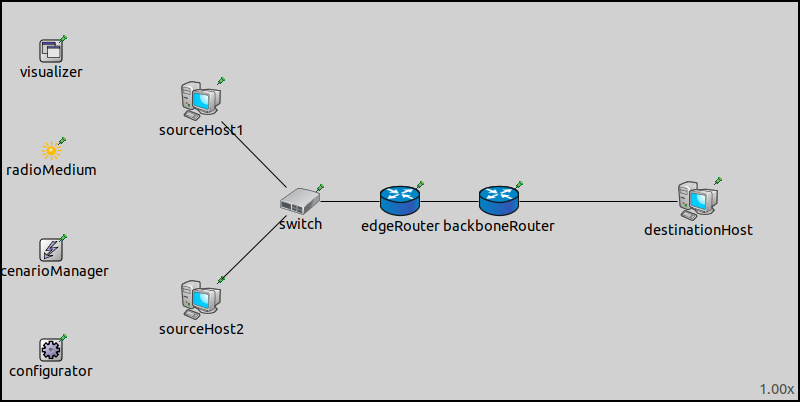
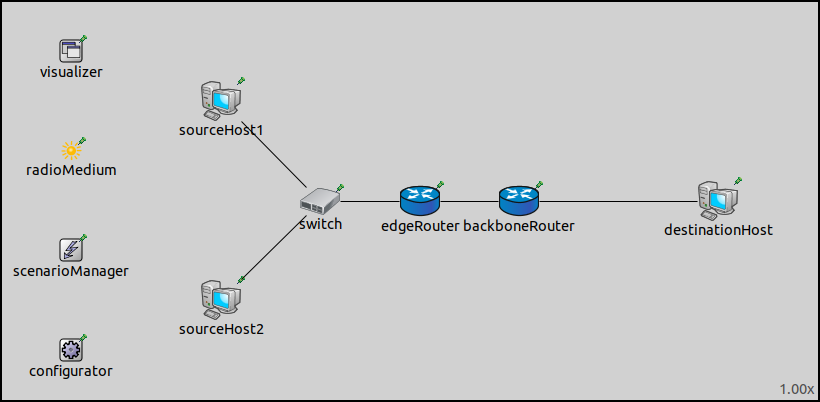
dynamicNetworks: improved

diff --git a/general/dynamicNetworks/doc/index.rst b/general/dynamicNetworks/doc/index.rst
@@ -49,7 +49,8 @@ The showcase presents two example simulations:
 The following image shows the layout of the network for the wireless simulation:
 
 .. figure:: Wireless_layout.png
-   :width: 100%
+   :scale: 100%
+   :align: center
 
 The network contains ``destinationNode`` and a vector of ``sourceNodes``'s. The number of ``sourceNodes``
 is initially set to zero, because the nodes are created with the help of the scenario scripting
@@ -58,7 +59,8 @@ during the simulation.
 The layout of the wired simulation looks like the following:
 
 .. figure:: Wired_layout.png
-   :width: 100%
+   :scale: 100%
+   :align: center
 
 It contains two ``sourceNode``'s and one ``destinationNode`` connected through two routers and a switch.
 
@@ -101,40 +103,78 @@ The key part of the configuration regarding this showcase is the following:
 .. literalinclude:: ../omnetpp.ini
    :language: ini
    :start-at: # scenario script to create and destroy nodes dynamically
-   :end-at: *.scenarioManager.script = xmldoc("scenario.xml")
+   :end-at: *.scenarioManager.script = xmldoc("wireless.xml")
 
-The ``scenario.xml`` file contains the script for the wireless simulation. Two :ned:`DynamicHost`:s,
-``sourceNode[0]`` and ``sourceNode[1]`` are created at the beginning of the simulation:
+The ``scenario.xml`` file contains the script for the wireless simulation. 
+
+Note that is life-cycle modeling is required, the following line must be added to the
+ini file to ensure that nodes have status modules:
+
+.. literalinclude:: ../omnetpp.ini
+   :language: ini
+   :start-at: # lifecycle
+   :end-at: **.hasStatus = true
+
+Two :ned:`DynamicHost`:s, ``sourceNode[0]`` and ``sourceNode[1]`` are created at 
+the beginning of the simulation. This is achieved as the following in the XML file:
 
 .. literalinclude:: ../wireless.xml
    :language: xml
    :start-at: <at t="0.0">
    :end-before: <at t="6.0">
 
+As you can see, the ``<create-module>`` element has four attributes, one for the type,
+one for the submodule name, one for the parent module and one for indicating that it is a vector of modules. 
+We create a vector of modules named ``sourceNode`` with the type of the previously mentioned :ned:`DynamicHost`.
 The created modules will have a random position inside the parent module. 
-The parent module in this case is the playground, because the parent module is ``"."``.
+The parent module in this case is the playground, because the ``parent`` attribute is set to is ``"."``.
 
-The ``destinationNode`` is shut down for four seconds, and during this, the ping request messages
-can not reach it:
+The ``destinationNode`` is shut down at ``t=6.0`` and remains so for two seconds. During this, the ping request messages
+can not reach it. To achieve this behavior, two life-cycle operations need to be used. With the ``<shutdown>`` element
+a module, given in the ``module`` attribute, can be shut down. This operation represents the process of orderly
+shutting down a network node.
+It is recommended to first initiate the shut down operation
+with the ``<initiate>`` attribute. The ``destinationNode`` is then started after two seconds using the ``<startup>``
+element. The ``<startup>`` operation represents the process of turning on a network node after a shutdown or
+crash. Here you can see the parts in question of  the scrip in the XML file:
 
 .. literalinclude:: ../wireless.xml
    :language: xml
    :start-at: <at t="6.0">
    :end-before: <at t="10.0">
 
-After that, ``sourceNode[0]`` crashes before both modules are destroyed:
+Another life-cycle operation to be mentioned is the crash of a node, which can be achieved with the
+``<crash>`` element. This operation represents the process of crashing a network node. The
+difference between this operation and shutdown operation is that the
+network node will not do a graceful shutdown (e.g. routing protocols will
+not have chance of notifying peers about broken routes). In this simulation,
+``sourceNode[0]`` crashes due to a theoretical malfunction, so that it
+does not send ping request messages anymore:
 
 .. literalinclude:: ../wireless.xml
    :language: xml
    :start-at: <at t="10.0">
+   :end-before: <at t="12.0">
+
+At the end of the simulation, both ``sourceNode[0]`` and ``sourceNode[1]`` are
+destroyed using the ``<delete-module>`` element:
+
+.. literalinclude:: ../wireless.xml
+   :language: xml
+   :start-at: <at t="12.0">
    :end-before: </scenario>
 
-We can simply see how these operations took place during the simulation
-if we take a look at specific statistics. The following image shows the
+We can simply confirm that these operations truely took place during the simulation
+if we take a look at the statistics. The following image shows the
 ``radioMode`` of the destination node:
 
 .. figure:: RadioMode.png
-   :width: 100%
+   :scale: 100%
+   :align: center
+
+We can clearly see for example that ``destinationNode`` was indeed shut down
+for two seconds between ``t=6.0s`` and ``t=8.0s``, and that ``sourceNode[0]`` truly
+crashed at ``t=10.0s``.
 
 Wired
 ~~~~~
@@ -143,17 +183,18 @@ In this example simulation, there are neither dynamically created nor dynamicall
 modules, therefore the :ned:`Ipv4NetworkConfigurator` can be used.
 
 All of the connections between the nodes (even the later dynamically created ones) 
-is set in the ned file:
+is set in the ned file. This needs to be done because the number of gates of a module can not
+be modified after the initialization.
 
 .. literalinclude:: ../scenMan.ned
    :language: ned
    :start-at: connections:
    :end-before: backboneRouter.ethg++ <--> Eth10M <--> destinationNode.ethg++;
 
-This needs to be done because the number of gates of a module can not
-be modified after the initialization. At the beginning, ``sourceNode2`` is
-disconnected from the network, and the connection between the ``backboneRouter``
-and the ``destinationNode`` modules is also destroyed during the simulation:
+At the beginning of the simulation, ``sourceNode2`` is
+disconnected from the network. At ``t=3.0s`` the connection between the ``backboneRouter``
+and the ``destinationNode`` modules is also destroyed. This can be done with the ``<disconnect>``
+element. Note that if the ``src-gate`` parameter names and inout gate, both directions will be disconnected.
 
 .. literalinclude:: ../wired.xml
    :language: xml
@@ -161,8 +202,8 @@ and the ``destinationNode`` modules is also destroyed during the simulation:
    :end-before: <at t="4.0">
 
 While the ``destinationNode`` is disconnected from the network, the ping request
-messages sent by ``sourceNode1`` can not reach it. After the connection between them
-is re-established, the request can reach their destination again:
+messages sent by ``sourceNode1`` can not reach it. A connection can be established (or
+re-established in our case) between ``desstinationNode`` and ``backboneRouter`` using the ``<connect>`` element:
 
 .. literalinclude:: ../wired.xml
    :language: xml
@@ -174,12 +215,11 @@ and it starts to send the ping requests to ``destinationNode`` as well:
 
 .. literalinclude:: ../wired.xml
    :language: xml
-   :start-at: <at t="4.0">
+   :start-at: <at t="6.0">
    :end-before: <at t="8.0">
 
 Not only the malfunction of ``destinationNode`` or its connection can cause that the
 ping request can not reach their target, but the routers can crash as well.
-
 The malfunction of the routers has the same consequence as when ``destinationNode`` was
 disconnected from the network. In this simulation, the router crashes for two seconds before
 it is restarted:
@@ -189,8 +229,8 @@ it is restarted:
    :start-at: <at t="8.0">
    :end-before: <at t="10.0">
 
-We can also change the parameters of the nodes during the simulation. In this case, the
-:par:`sendInterval` parameter of ``sourceNode1`` is modified:
+We can also change the parameters of the nodes during the simulation with the help of the
+<set-param> element. In this case, the :par:`sendInterval` parameter of ``sourceNode1`` is modified:
 
 .. literalinclude:: ../wired.xml
    :language: xml
@@ -205,12 +245,17 @@ and disconnected from the network:
    :start-at: <at t="14.0">
    :end-before: </scenario>
 
-We can see that the desired actions were actually executed by the ``ScenarioManager``
+We can see that the desired actions were indeed executed by the :ned:`ScenarioManager`
 during the simulation, if we take a look at the ``transmissionState`` statistic
 of ``backboneRouter``'s PPP interface:
 
 .. figure:: TransmissionState.png
-   :width: 100%
+   :scale: 100%
+   :align: center
+
+The plot clearly shows the time intervals when the ping request messages (for some reason)
+could not be forwarded to ``destinationNode``. From the density of the state changes we can also see
+when the :par:`sendInterval` parameter of ``sourceNode1`` was modified to a smaller value than it was before.
 
 Discussion
 ----------
